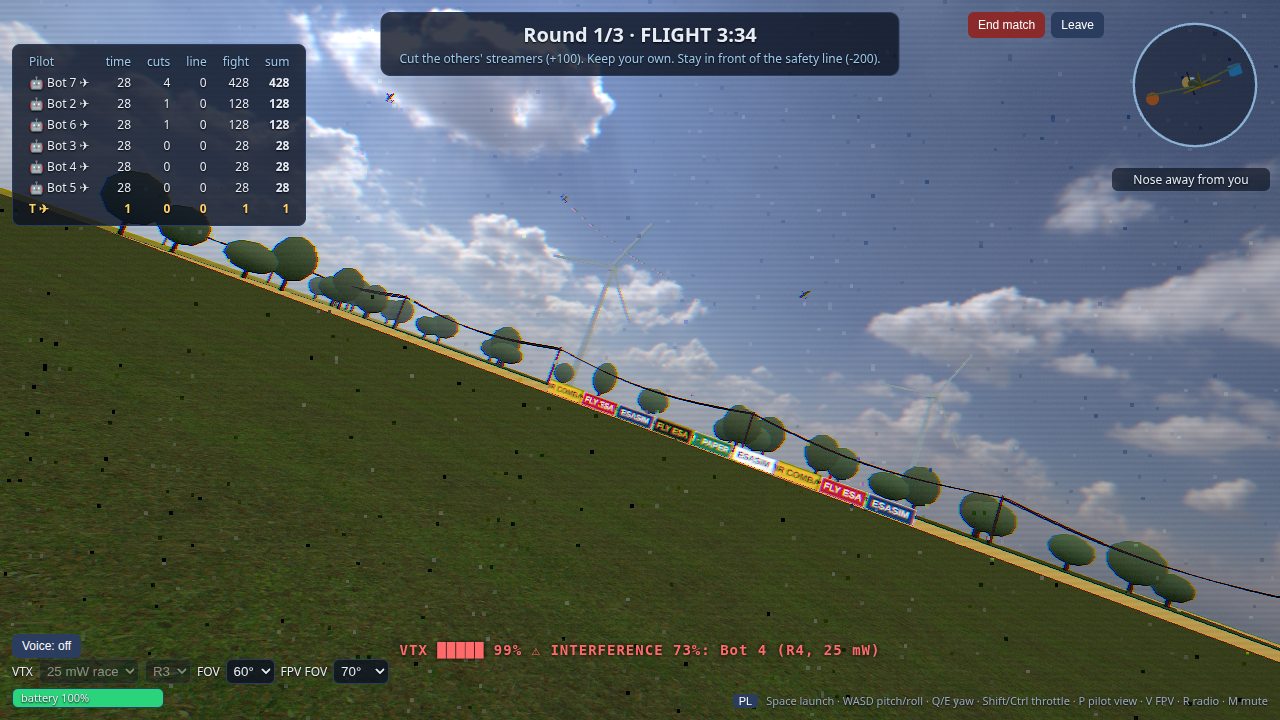
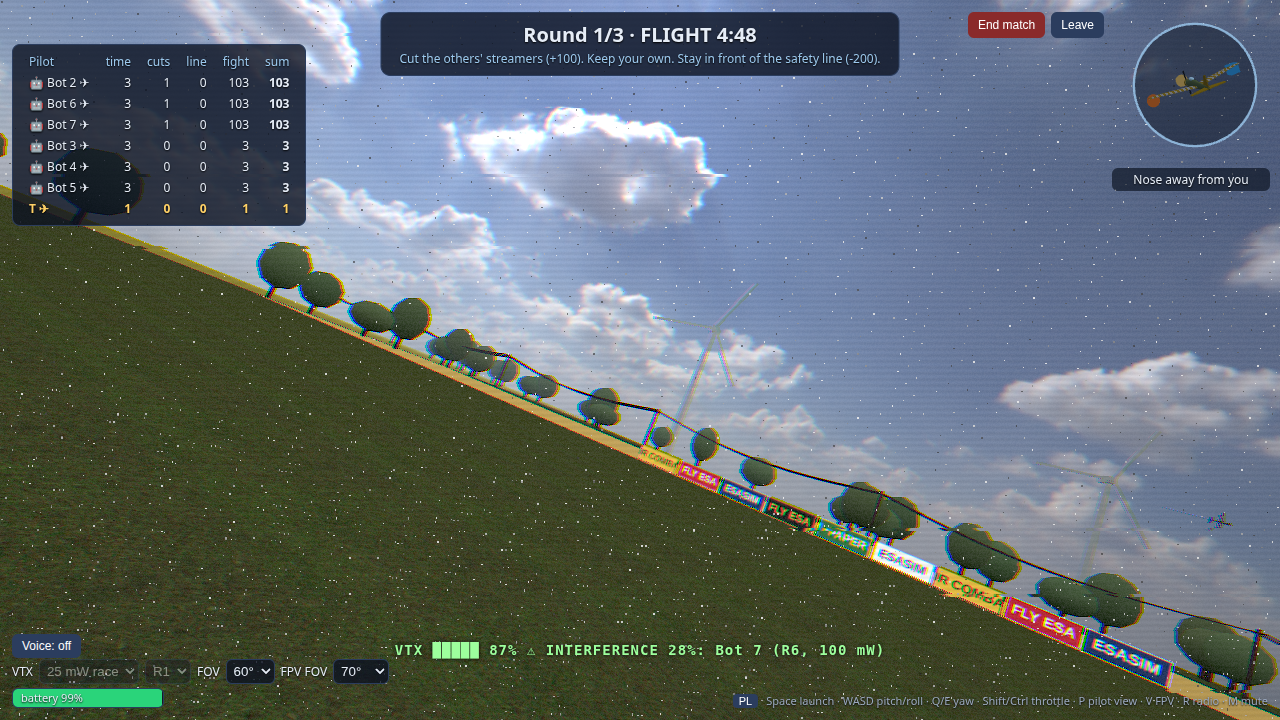
Kato: mild camber so it no longer pitches up by itself; FPV interference reduced to sparse scattered pixels

diff --git a/shared/picasim/katoDef.js b/shared/picasim/katoDef.js
@@ -13,12 +13,14 @@ export const KATO_PROP = { radius: 0.0762, pitch: 0.17, chord: 0.013 };   // an 
 // is scaled down (span 700-860 mm) and ballasted to the 200 g minimum (3.6.2). It stays a flyable practice plane in the meantime.
 export const KATO_DEFAULTS = { aileronDeg: 30, elevatorDeg: 30 };
 
-// Response tuning (ESASIM, not PicaSim; user report "elevator response is bad, cannot turn"): PicaSim's Kato sections are symmetric (CL0 = 0, CM0 = 0) and its
-// elevon lift coefficients are tiny (0.003-0.006/deg, our other planes use 0.02), so here it trims at zero lift: it dives hands-off, pulling does little
-// (80 deg/s) and a banked turn just spirals down (22 deg/s while losing 70 m). Real flying wings use cambered/reflexed sections, so the Kato gets CL0 0.3 and
-// CM0 0.01 (it then holds a stable glide hands-off at about 11 m/s, 5.5:1), 2x stronger elevons (lift and moment), elevator mix 0.8 and a smaller aileron
-// throw to keep the roll rate sane. Result at 800 mm, 14 m/s: pitch about 330 deg/s, roll about 420 deg/s, a banked turn about 120 deg/s.
-export const KATO_CL0 = 0.3, KATO_CM0 = 0.01, KATO_ELEVON_GAIN = 2, KATO_AILERON_DEG = 23;
+// Response tuning (ESASIM, not PicaSim). User report 1: "elevator response is bad, cannot turn". PicaSim's Kato sections are symmetric (CL0 = 0, CM0 = 0) and its
+// elevon lift coefficients are tiny (0.003-0.006/deg, our other planes use 0.02): a full pull pitched only about 80 deg/s and a banked turn spiralled down
+// (22 deg/s while losing 70 m). Fix: elevons x2 (lift and moment), elevator mix 0.8, aileron throw 23 degrees, a mild camber (CL0 0.1).
+// User report 2: "it pitches up constantly, the launch was good always". A first attempt with CL0 0.3 and reflex (CM0 0.01) trimmed so nose-high that it climbed
+// and stalled by itself. Sweeps showed a cliff: below CL0 0.14 the plane sinks into the ground within about a second hands-off, above it zooms up to 30+ m/s and
+// stalls; no hands-off powered flight was stable anywhere in the sweep. So the Kato is a stick-flown plane and gets only a mild camber: neutral stick is a gentle
+// sink, a little back stick holds it level, nothing pitches up by itself. Measured at 800 mm, 14 m/s: pitch about 290 deg/s, roll about 410 deg/s.
+export const KATO_CL0 = 0.1, KATO_CM0 = 0, KATO_ELEVON_GAIN = 2, KATO_AILERON_DEG = 23;
 
 const AEROFOILS = {
   "Kato-root": { CDFlying: 0.01, CDStalled: 1.0, CM0: 0, CMPerDeg: -0.006, refRe: 200000, CDPower: -0.15, minReFrac: 0.1, CL0: 0, CLPerDeg: 0.08,
@@ -39,7 +41,7 @@ export function buildKatoDef(b0 = {}) {
   const foils = structuredClone(AEROFOILS); for (const k of ["Kato-root", "Kato-tip"]) { foils[k].CL0 = b.cl0 ?? KATO_CL0; foils[k].CM0 = b.cm0 ?? KATO_CM0; }
   return applyOverrides({
     name: "Electric Kato (PicaSim)",
-    settings: { sizeScale: b.spanMm / KATO_SPAN_MM, massScale: 1, dragScale: 1, engineScale: 1, extraMassPercent: 0 },
+    settings: { sizeScale: b.spanMm / KATO_SPAN_MM, massScale: 1, dragScale: b.dragScale ?? 1, engineScale: 1, extraMassPercent: 0 },
     dynamics: { wingSpan: 1.21, wingChord: 0.39, CMRollFromY: 0 },
     aerofoils: foils,
     wings: [

diff --git a/test/picasim.test.js b/test/picasim.test.js
@@ -65,10 +65,11 @@ check("mass and CG", base.aero.mass > 0.36 && base.aero.mass < 0.43 && Math.abs(
   check("Kato at native size has PicaSim's numbers: 1.21 m span, about 423 g", Math.abs(defSpanMm(nat) - 1210) < 15 && Math.abs(defMassKg(nat) * 1000 - 423) < 3, `${defSpanMm(nat).toFixed(0)} mm, ${(defMassKg(nat) * 1000).toFixed(0)} g`);
   const mkK = (b = {}) => new PicaPlane({ def: buildKatoDef({ spanMm: 800, ...b }), batteryWh: 15, span: 0.8, id: "kato" });
   check("Kato at the default 800 mm: real battery and electronics keep their mass (ESA-legal 200-450 g)", defMassKg(buildKatoDef({ spanMm: 800 })) * 1000 > 200 && defMassKg(buildKatoDef({ spanMm: 800 })) * 1000 < 450, `${(defMassKg(buildKatoDef({ spanMm: 800 })) * 1000).toFixed(0)} g`);
-  // self-trimming: with the cambered section it holds a stable glide hands-off (user report: "cannot turn, elevator response bad")
-  { const pl = fly(mkK(), 600, 14, 0); const log = []; run(pl, 25, (p, t) => { if (t > 15 && Math.round(t * 240) % 120 === 0) log.push([p.vel.length(), -p.vel.y, pitchDeg(p)]); });
-    const v = log.reduce((x, c) => x + c[0], 0) / log.length, sk = log.reduce((x, c) => x + c[1], 0) / log.length, pmax = Math.max(...log.map((c) => Math.abs(c[2])));
-    check("Kato holds a stable hands-off glide (L/D above 4, no dive)", v / sk > 4 && v > 7 && v < 16 && pmax < 30, `${v.toFixed(1)} m/s, sink ${sk.toFixed(1)}, L/D ${(v / sk).toFixed(1)}, pitch within ${pmax.toFixed(0)} deg`); }
+  // user report: "it pitches up constantly". Neutral stick must never pitch the Kato up or let it climb away by itself, at cruise or at full throttle.
+  { let worst = -90, climbed = 0;
+    for (const thr of [0.6, 1]) { const pl = mkK(); pl.pos.set(0, 1.4, -3); pl.held = true; pl.input.throttle = thr; pl.launch(10, 0.12);
+      let down = false; run(pl, 4, (p) => { if (p.pos.y < 0.3) down = true; if (!down) { worst = Math.max(worst, pitchDeg(p)); climbed = Math.max(climbed, p.pos.y); } }); }   // up to the first touchdown (after it the plane just bounces)
+    check("Kato never pitches up or climbs on its own with the stick centred (launch at 60 % and 100 % throttle)", worst < 25 && climbed < 8, `highest pitch ${worst.toFixed(0)} deg, highest point ${climbed.toFixed(1)} m (stick-flown it holds height, see below)`); }
   // control response: the elevator must really pitch the plane, and a banked turn must turn
   { const q = fly(mkK(), 400, 14, 0.6); run(q, 0.5); let pk = 0; q.input.elevator = 1; run(q, 0.6, (p) => { pk = Math.max(pk, Math.abs(deg(p.omega.x))); });
     const r = fly(mkK(), 400, 14, 0.6); run(r, 0.5); let rk = 0; r.input.aileron = 1; run(r, 0.6, (p) => { rk = Math.max(rk, Math.abs(deg(p.omega.z))); });

diff --git a/client/i18n.js b/client/i18n.js
@@ -39,7 +39,7 @@ const dict = {
     "fov": "FOV", "fovTip": "Field of view of the pilot view", "fovFpv": "FPV FOV", "fovFpvTip": "Field of view of the FPV camera (separate from the pilot view)",
     "abort": "End match", "leave": "Leave", "abortAsk": "End the match for everybody and return to the waiting room? The running fight is not scored.",
     "w.aileron": "Aileron throw", "w.elevator": "Elevator throw", "w.rudder": "Rudder throw",
-    "katoHint": "Flying wing: no tail, so elevator and ailerons share the same elevons. Small stick inputs, bank and pull gently to turn.",
+    "katoHint": "Flying wing, flown with the stick: it sinks gently when you let go. Hold a little back stick to keep height, bank and pull gently to turn.",
     "round": "Round", "final": "Final",
     "ev.cut": "{a} cut {b}'s streamer  +{p}", "ev.safety": "{a} crossed the safety line  {p}", "ev.dq": "{a} disqualified: second crossing (§4.9)",
     "ev.warn": "Non-engagement warning: go fight (§4.14)", "ev.non": "{a} non-engagement  {p}", "ev.land": "{a} landed in the field  +{p}", "ev.prot": "{a} kept the streamer  +{p}",
@@ -84,7 +84,7 @@ const dict = {
     "fov": "FOV", "fovTip": "Pole widzenia widoku pilota", "fovFpv": "FOV FPV", "fovFpvTip": "Pole widzenia kamery FPV (osobno od widoku pilota)",
     "abort": "Zakończ mecz", "leave": "Wyjdź", "abortAsk": "Zakończyć mecz dla wszystkich i wrócić do poczekalni? Trwająca walka nie będzie liczona.",
     "w.aileron": "Wychylenie lotek", "w.elevator": "Wychylenie steru wys.", "w.rudder": "Wychylenie steru kier.",
-    "katoHint": "Latające skrzydło: bez ogona, więc ster wysokości i lotki to te same elewony. Małe wychylenia, przechyl i lekko pociągnij, żeby skręcić.",
+    "katoHint": "Latające skrzydło, lata się drążkiem: puszczone łagodnie opada. Trzymaj lekko drążek do siebie, żeby utrzymać wysokość, przechyl i lekko pociągnij, żeby skręcić.",
     "round": "Runda", "final": "Finał",
     "ev.cut": "{a} uciął taśmę {b}  +{p}", "ev.safety": "{a} przekroczył linię bezpieczeństwa  {p}", "ev.dq": "{a} zdyskwalifikowany: drugie przekroczenie (§4.9)",
     "ev.warn": "Ostrzeżenie za unikanie walki: leć walczyć (§4.14)", "ev.non": "{a} unikanie walki  {p}", "ev.land": "{a} wylądował na polu  +{p}", "ev.prot": "{a} zachował taśmę  +{p}",

diff --git a/client/fpvEffect.js b/client/fpvEffect.js
@@ -18,15 +18,11 @@ export const FpvShader = {
       // a touch of sharpening while the link is good (unsharp mask), fading out as the signal degrades
       vec3 bl = 0.25 * (texture2D(tDiffuse, uv + vec2(texel.x, 0.0)).rgb + texture2D(tDiffuse, uv - vec2(texel.x, 0.0)).rgb + texture2D(tDiffuse, uv + vec2(0.0, texel.y)).rgb + texture2D(tDiffuse, uv - vec2(0.0, texel.y)).rgb);
       c += (c - bl) * 0.45 * (1.0 - n);
-      if (interf > 0.01) {                                                                    // a neighbour at 100 mW max: a few pixels twitch, short glitch lines, nothing more
-        vec2 blk = floor(vUv * vec2(aspect * 200.0, 200.0));
-        float tw = hash(blk + floor(time * 16.0));
-        float hit = step(tw, 0.0035 * interf + 0.002 * interf * interf);                         // rare small blocks
-        vec2 off = (vec2(hash(blk + 3.1), hash(blk + 7.7)) - 0.5) * 0.008 * hit;
-        c = mix(c, vec3(texture2D(tDiffuse, uv + off).r, texture2D(tDiffuse, uv + off * 1.6).g, texture2D(tDiffuse, uv - off).b), hit);
-        c += hit * (hash(blk + 11.3) - 0.5) * 0.18;                                             // the twitching pixels flash a little
-        float gl = step(0.9993 - 0.002 * interf, hash(vec2(line * 0.13, floor(time * 9.0))));  // an occasional thin torn line
-        c = mix(c, texture2D(tDiffuse, uv + vec2((hash(vec2(line, 5.0)) - 0.5) * 0.03, 0.0)).rgb, gl);
+      if (interf > 0.01) {                                                                    // a neighbour at 100 mW max: only scattered single pixels flicker (about a tenth of the first version)
+        vec2 px = floor(vUv * vec2(aspect * 540.0, 540.0));
+        float hit = step(hash(px + floor(time * 20.0)), 0.0004 * interf);                       // a handful of pixels per frame, anywhere on the picture
+        float v = hash(px + 3.7);
+        c = mix(c, vec3(0.5 + 0.5 * (v - 0.5) * 2.0), hit * 0.8);
       }
       float l = dot(c, vec3(0.299, 0.587, 0.114));
       c = mix(vec3(l), c, 0.97 - 0.55 * n);                                                    // washed-out colour

diff --git a/docs/physics.md b/docs/physics.md
@@ -46,7 +46,9 @@ Adam asked for default planes that fly like a foamy indoor aerobatic plane, 20 %
 
 `shared/picasim/katoDef.js` transcribes PicaSim's `ElectricKato` (Aeroplane.xml and the two aerofoil files; design by Kevin Bagwell): two swept panels per side with elevons (aileron on channel 0, elevator mix on channel 1), tip fins, a pusher prop, native span 1.21 m and 423 g (checked in `test/picasim.test.js`). ESASIM adds, all marked in the file:
 - the plane scales with the workshop span (PicaSim `sizeScale = span / 1210`); the battery, electronics and ballast are given in real grams so they do not shrink with the airframe (default 800 mm build: 265 g plus ballast, legal under ESA 200-450 g and the 650-900 mm slider range);
+- the control response was reworked after two reports from Adam. (1) "response to elevator is bad, cannot turn even though the throw is ramped up" (2026-10-05): with PicaSim's numbers a full pull pitched the plane at only about 80 deg/s (our ESA planes: 270) and a banked turn with a 0.7 pull turned at 22 deg/s while losing 71 m, because its sections are symmetric (CL0 = 0, CM0 = 0) and its elevon lift coefficients (0.003 and 0.006 per degree) are tiny. Fix: elevon lift and moment x2, elevator mix 0.8 (PicaSim 0.25), aileron throw 23 degrees at the default slider (PicaSim 35), motor torque x2, an absolute 6 in prop. (2) "it pitches up constantly, the launch was good always": a first fix with a strongly cambered, reflexed section (CL0 0.3, CM0 0.01) trimmed nose-high and climbed and stalled by itself. A sweep showed a cliff: below CL0 0.14 the plane sinks into the ground within about a second hands-off, above it zooms up to 30+ m/s and stalls, and nothing in the sweep flew stably hands-off under power. So the final Kato has only a mild camber (CL0 0.1, CM0 0): stick centred it sinks gently (pitch about -15 degrees, no climb), a little back stick holds height, and nothing pitches up by itself. Result at 800 mm: pitch about 290 deg/s, roll about 520 deg/s, a banked turn with a 0.5 pull about 70-100 deg/s (`test/picasim.test.js`). The elevator and aileron throw sliders scale around those defaults.
+- the plane scales with the workshop span (PicaSim `sizeScale = span / 1210`); the battery, electronics and ballast are given in real grams so they do not shrink with the airframe (default 800 mm build: 265 g plus ballast, legal under ESA 200-450 g and the 650-900 mm slider range);
 - the control response was reworked after Adam's report ("response to elevator is bad, cannot turn even though the throw is ramped up", 2026-10-05). Measured with PicaSim's numbers: the elevator pitched the plane at only about 80 deg/s at the start of a full pull (our ESA planes: 270), roll was about 660 deg/s, and a banked turn with a 0.7 pull turned at 22 deg/s while losing 71 m, because PicaSim's sections are symmetric (CL0 = 0, CM0 = 0) so the plane trims at zero lift, and its elevon lift coefficients (0.003 and 0.006 per degree) are tiny. ESASIM therefore uses a cambered/reflexed section (CL0 0.3, CM0 0.01, as real flying wings do), elevon lift and moment x2, elevator mix 0.8 (PicaSim 0.25), aileron throw 23 degrees at the default slider (PicaSim 35), motor torque x2 and an absolute 6 in prop. Result at 800 mm: pitch about 320 deg/s, roll about 410 deg/s, banked turn about 140 deg/s, stable hands-off glide about 10 m/s at 5.7:1 (`test/picasim.test.js`). The elevator and aileron throw sliders scale around those defaults.
 - the plane scales with the workshop span (PicaSim `sizeScale = span / 1210`); the battery, electronics and ballast are given in real grams so they do not shrink with the airframe (default 800 mm build: 265 g plus ballast, legal under ESA 200-450 g and the 650-900 mm slider range).
-**Not solved:** a hands-off hand launch at throttle still ends in a growing pitch oscillation (it climbs, stalls and falls), also with more nose weight or more reflex; with stick input the launch, climb and cruise work (cruise about 19 m/s at 60 % throttle). The Kato is flown with the sticks. Bots are tuned for conventional planes and never fly it (`BOT_PLANE_IDS`). The mesh is original (`models/scad/kato.scad`, `tools/build-models.sh`).
+**Not solved:** there is no stable hands-off powered flight (also not with more nose weight or reflex); with stick input the launch, climb and cruise work (cruise about 20-25 m/s at 60 % throttle). The Kato is flown with the sticks. Bots are tuned for conventional planes and never fly it (`BOT_PLANE_IDS`). The mesh is original (`models/scad/kato.scad`, `tools/build-models.sh`).
 

diff --git a/CLAUDE.md b/CLAUDE.md
@@ -118,4 +118,5 @@ Still open:
   - **Aerobatic wing stripes (Adam):** chordwise bands in the pilot's colour on the wings, white between them on the top surface and black on the underside (shader tweak on the wing material, `client/planeModel.js`, VISUAL only; recolours with the pilot tint). **Electric Kato from PicaSim (issue #21):** Adam: "in the morning maybe", not started. Sources are on disk (ElectricKato.xml); PicaSim's meshes and textures are not usable, so the model would be our own.
   - **Electric Kato added (Adam: "do now"; issue #21):** `shared/picasim/katoDef.js` (PicaSim's parameters, scaled by span, real-gram battery/electronics/ballast, elevator mix 0.5, torque x2, absolute 6 in prop), `shared/picasim/planeDef.js` dispatcher, registry in `shared/planes/index.js` (bots excluded via `BOT_PLANE_IDS`), `defSpanMm` accounts for sweep, original mesh `models/scad/kato.scad` -> `public/models/kato/`, client plane list and prop position, launch hint (EN/PL), NOTICE credits PicaSim's data and Kevin Bagwell. It dives hands-off (symmetric sections, like PicaSim) so it is a stick-flown plane; default 800 mm build is ESA-legal (about 285 g). Tests in `test/picasim.test.js` and `test/audit.test.js`. `docs/physics.md`.
   - **Kato response fixed (Adam, 2026-10-05: "response to elevator is shit, cannot turn even tho throw is ramped up"):** measured first: with PicaSim's numbers pitch was about 80 deg/s and a banked turn only 22 deg/s while losing 70 m (symmetric sections trim at zero lift, tiny elevon coefficients). Now cambered/reflexed section (CL0 0.3, CM0 0.01), elevon gain x2, elevator mix 0.8, aileron 23 degrees: pitch about 320 deg/s, roll about 410 deg/s, turn about 140 deg/s, stable hands-off glide (5.7:1). New tests for glide, pitch, roll, turn in `test/picasim.test.js`. Still open: a hands-off hand launch at throttle oscillates and crashes (stick-flown launch is fine). Details in `docs/physics.md`.
+  - **Kato: no more constant pitch-up (Adam, 2026-10-05: "it pitches up constantly, launch was always good"):** the CL0 0.3 / CM0 0.01 fix overshot (nose-high trim, climbs and stalls by itself). Sweeps found a cliff at CL0 about 0.14 (below: sinks into the ground in about 1 s hands-off, above: zooms and stalls) and no stable hands-off powered flight, so the Kato now has only CL0 0.1, CM0 0, with the stronger elevons kept (pitch about 290 deg/s, turn works). Test "never pitches up or climbs on its own with the stick centred" replaces the old glide test. **FPV interference (Adam: "10 of the interference ... scattered"):** now about a tenth of the previous strength and scattered single pixels only (no blocks, no torn lines), `client/fpvEffect.js`; `docs/img/interference.png` retaken.
 

diff --git a/README.md b/README.md
@@ -20,7 +20,7 @@
 - **Pursuit bots**, so you can test alone. Add up to six. Gusty air is shared by all planes.
 - **Hand launch** like real WWII ESA, from your start box. **Pilot camera** standing at your start box and following the plane (default), or **analog-style FPV** (V): scanlines, snow and tearing grow with distance from you, ending in signal lost.
 - **Textured sky** (procedural clouds and sun) and a **beginner orientation widget** in the top-right corner: your plane as you see it from the start box, with a yellow nose arrow, an orange sphere (left) and a blue cube (right) on the wing tips and a plain-language label ("Nose toward you · banked left").
-- **Analog FPV and video interference**: every plane carries a video transmitter (power 25, 50 or 100 mW, the maximum in this game, channel R1-R8). Range grows with power. Another pilot's transmitter near your start box, especially a 100 mW one next to your 25 mW, makes a few pixels twitch and adds the odd thin torn line in your feed (at 100 mW at most, that is all a pass-by does; your own range still decides how far you can fly). Switch power and channel live (model in your hand). This is a sim effect, ESA has no VTX rules.
+- **Analog FPV and video interference**: every plane carries a video transmitter (power 25, 50 or 100 mW, the maximum in this game, channel R1-R8). Range grows with power. Another pilot's transmitter near your start box, especially a 100 mW one next to your 25 mW, only scatters a few single pixels in your feed (at 100 mW at most, that is all a pass-by does; your own range still decides how far you can fly). Switch power and channel live (model in your hand). This is a sim effect, ESA has no VTX rules.
 - **Replay**: after a fight, watch it back (scoreboard and events included) or save it as JSON, useful as evidence for protests (§4.19).
 - **RadioMaster support** (any USB joystick-mode radio) with mapping and calibration (key R), ported from the author's earlier drone sim. Keyboard works too.
 - The flight model, streamer, cut detection, scoring, series, workshop and bots are headless and covered by tests (`npm test`).
